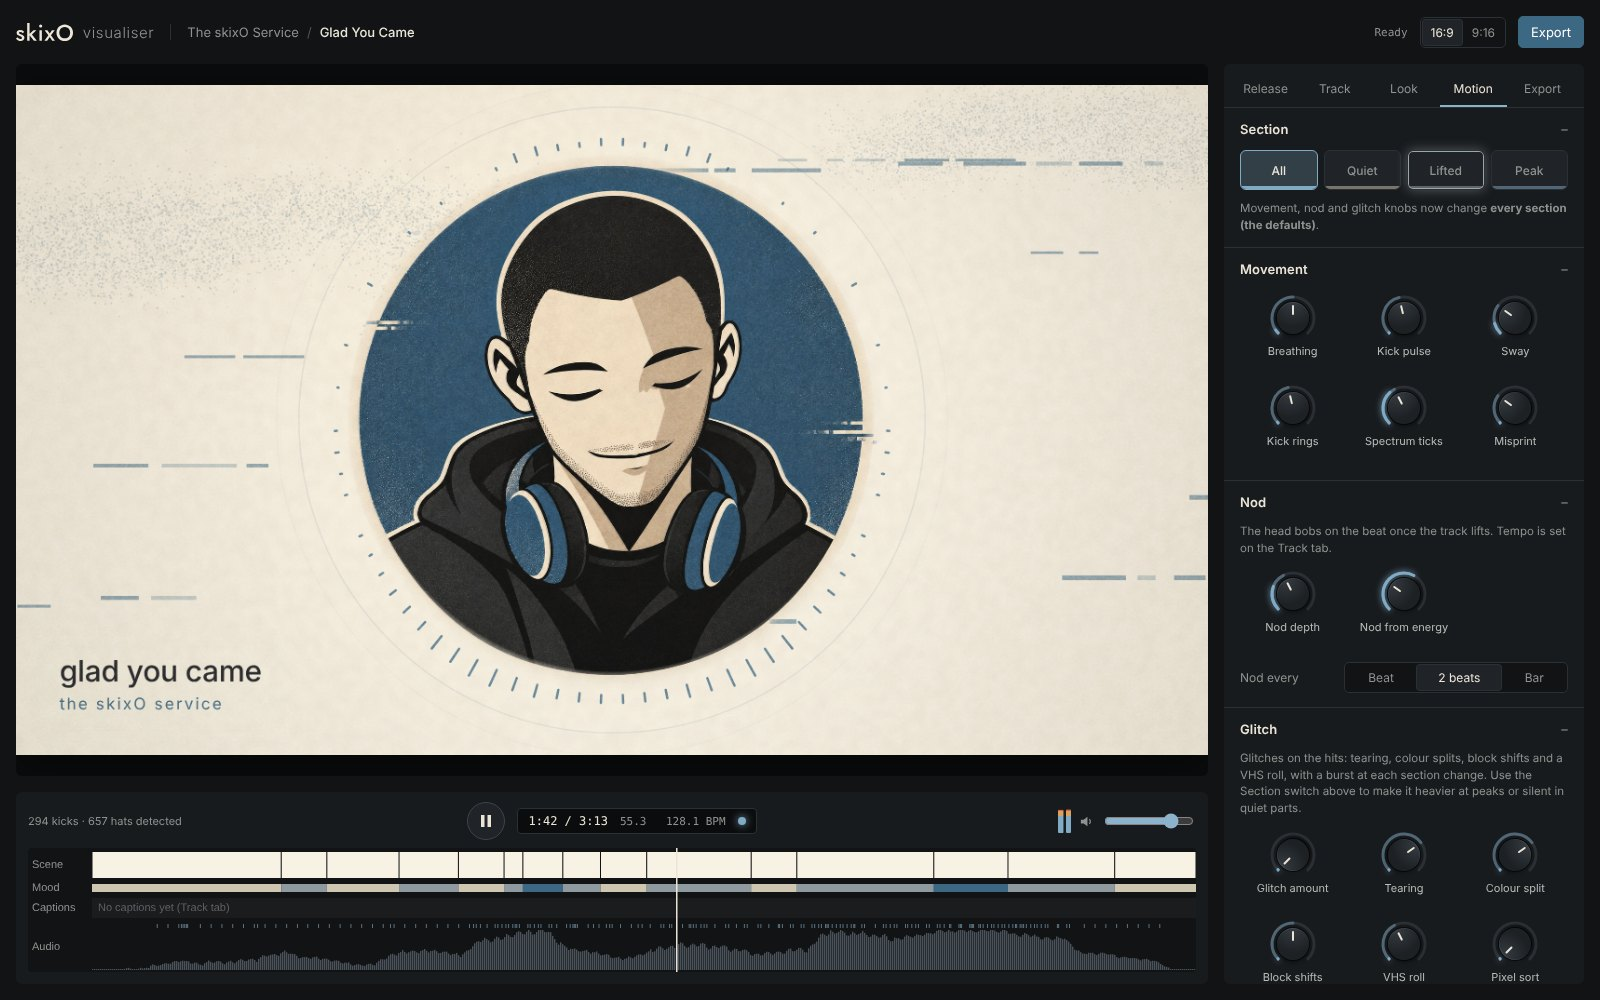
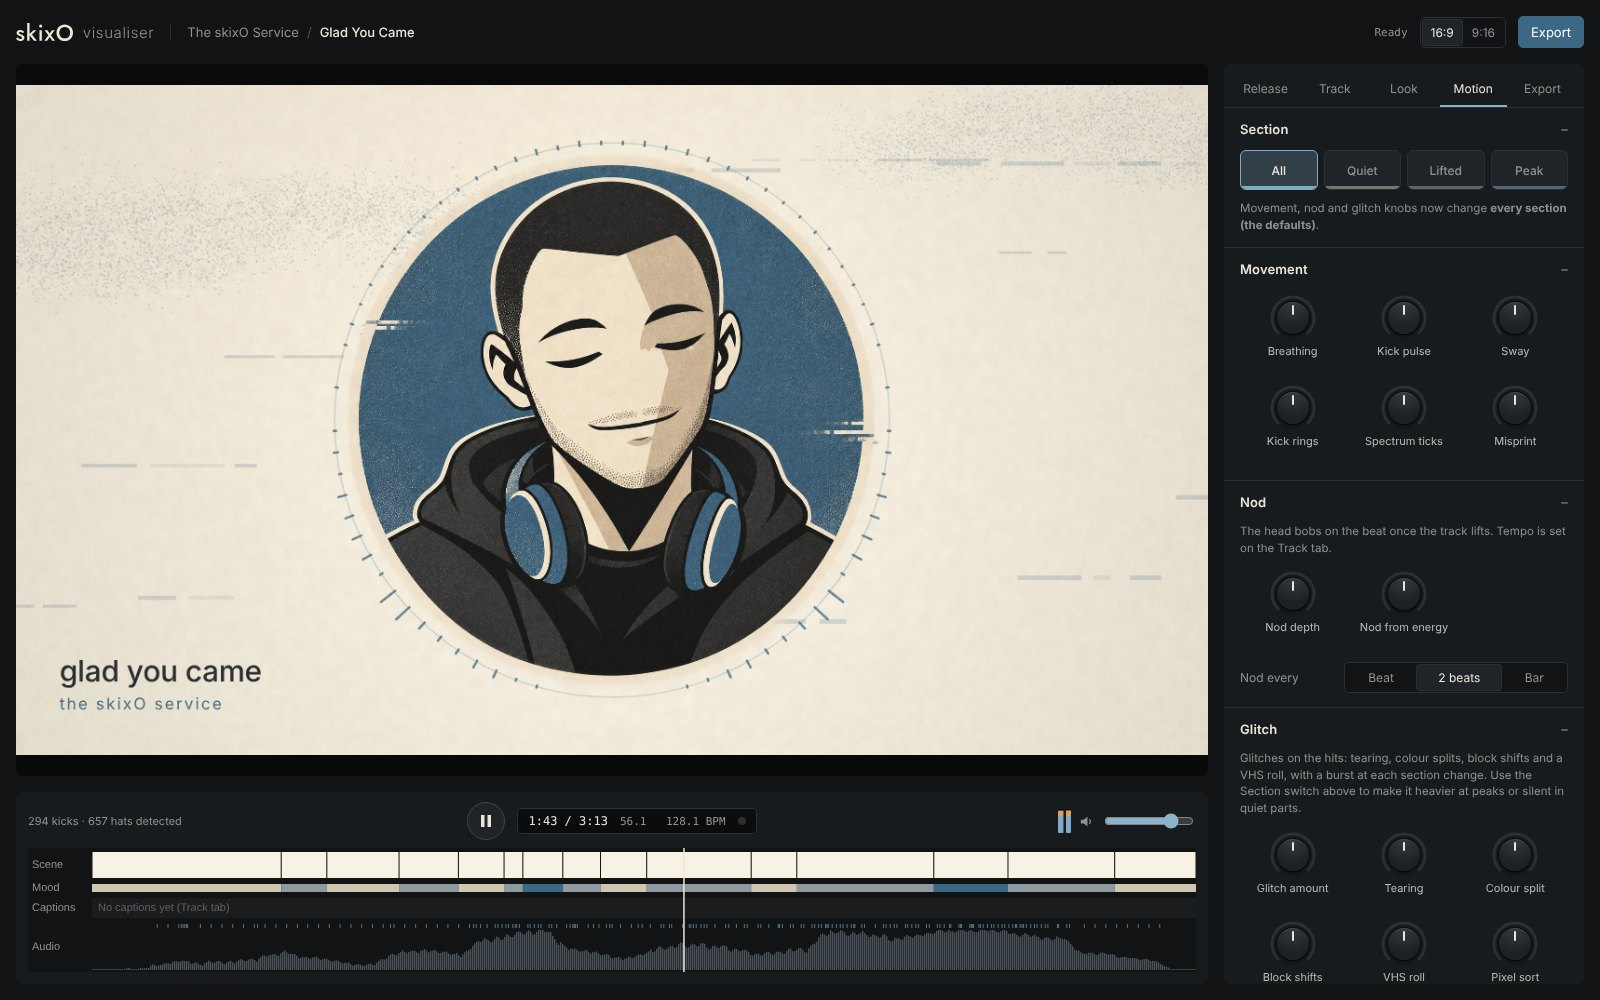
Case study: bring copy and images in line with the updated brief
Adds the third design pass and the Look tab screenshot, the direct
manipulation highlight, tap tempo and draggable section edges, animated
scenes, shared mascot frames and the tap pad for lyrics. The hero now
shows the current editor.

diff --git a/public/case-study/index.html b/public/case-study/index.html
@@ -93,12 +93,12 @@ footer b { color: var(--fg); }
     <dl class="facts">
       <div><dt>Role</dt><dd>Concept, art direction, design and build</dd></div>
       <div><dt>Platform</dt><dd>Web (desktop, Chrome or Edge for rendering)</dd></div>
-      <div><dt>Status</dt><dd>In use for skixO releases (private tool)</dd></div>
+      <div><dt>Status</dt><dd>In use for skixO releases (private tool, public case study)</dd></div>
     </dl>
 
     <figure class="hero">
-      <img src="/case-study/img/editor.jpg" width="1600" height="1200" alt="The visualiser editor: a preview of the mascot badge over a dusk city skyline, a panel of looks, layout and scene controls on the right, and a full-width timeline below with Scene, Mood, Captions and Audio lanes.">
-      <figcaption>The editor on a release. Preview, the panel for the step you are on, and the timeline lanes underneath.</figcaption>
+      <img src="/case-study/img/editor.jpg" width="1600" height="1200" alt="The visualiser editor during playback on the Look tab: the mascot badge on cream paper, look swatches, ink chips with hex values, layout and scene controls on the right, and below a transport with time, bar and BPM readouts above a full-width timeline with Scene, Mood, Captions and Audio lanes.">
+      <figcaption>The editor on a release, during playback. Preview, the panel for the step you are on, and the timeline lanes underneath.</figcaption>
     </figure>
   </header>
 
@@ -111,7 +111,7 @@ footer b { color: var(--fg); }
   <section>
     <div class="col">
       <h2><span class="n">01</span>Reading the track</h2>
-      <p>The audio is analysed in the browser: low and high bands for kicks and hats, a smoothed energy curve for structure, and a tempo and downbeat estimate from the kicks. From that, every track splits into quiet, lifted and peak sections, and the two biggest moments get the peak treatment. Because the scale is relative to each track, a gentle song and a loud one both get the full range of looks.</p>
+      <p>The audio is analysed in the browser: low and high bands for kicks and hats, a smoothed energy curve for structure, and a tempo and downbeat estimate from the kicks. From that, every track splits into quiet, lifted and peak sections, and the two biggest moments get the peak treatment. Because the scale is relative to each track, a gentle song and a loud one both get the full range of looks. Tempo can also be tapped in by hand, and section edges can be dragged straight on the timeline when the automatic split needs a nudge.</p>
     </div>
     <div class="pair">
       <figure><img src="/case-study/img/frame-quiet.jpg" width="1600" height="900" loading="lazy" alt="A quiet section: the mascot in flat light inside a round badge, over a starry night sky with a crescent moon and low clouds."><figcaption>Quiet: flat light.</figcaption></figure>
@@ -132,7 +132,7 @@ footer b { color: var(--fg); }
     <div class="col">
       <h2><span class="n">03</span>Backgrounds that carry the story</h2>
       <p>The mascot stays calm while the world behind it changes. Each section can have its own scene, with its own opacity, blur and drift, and scene changes follow the same timing as the mascot.</p>
-      <p>A library of 67 backgrounds in three sets (wistful, surreal, glitch) and four palettes sits behind a picker, and a "match look" step samples a background to recolour the badge so it always belongs to the scene.</p>
+      <p>A library of 67 backgrounds in three sets (wistful, surreal, glitch) and four palettes sits behind a picker, alongside animated scenes drawn in code, and a "match look" step samples a background to recolour the badge so it always belongs to the scene.</p>
     </div>
     <figure><img src="/case-study/img/frame-peak.jpg" width="1600" height="900" loading="lazy" alt="A peak section: the mascot in side light with a wider smile, over a glitched sky with light rays, red and cyan channel splits and scan lines."><figcaption>A peak. The scene and the glitch change with the section, and the mascot stays calm.</figcaption></figure>
   </section>
@@ -140,7 +140,7 @@ footer b { color: var(--fg); }
   <section>
     <div class="col">
       <h2><span class="n">04</span>Consistency across a body of work</h2>
-      <p>Looks bundle paper, ink and accent colours and recolour the artwork to match. Release groups (an album, a series, a playlist) share a look and motion, while each release keeps its own track, titles, sections and captions. Groups export to a file for backup.</p>
+      <p>Looks bundle paper, ink and accent colours and recolour the artwork to match. Release groups (an album, a series, a playlist) share a look, motion and mascot frames, while each release keeps its own track, titles, sections and captions. Groups export to a file for backup.</p>
     </div>
     <figure><img src="/case-study/img/looks.jpg" width="1500" height="560" loading="lazy" alt="The same frame in five looks: paper blue, dusk in purple, sage in green, riso red, and night on a dark background."><figcaption>The five looks: Paper blue, Dusk, Sage, Riso red and Night.</figcaption></figure>
   </section>
@@ -148,7 +148,7 @@ footer b { color: var(--fg); }
   <section>
     <div class="col">
       <h2><span class="n">05</span>One render, a full set of assets</h2>
-      <p>Rendering is frame-accurate and runs entirely in the browser: 16:9 and 9:16 in one pass, an 8-second seamless Spotify Canvas loop, and still presets for YouTube thumbnails, Instagram posts and Story covers with a headline type style. Lyrics are timed by tapping along as the track plays, then styled with entrances, finishes and fade timings.</p>
+      <p>Rendering is frame-accurate and runs entirely in the browser: 16:9 and 9:16 in one pass, an 8-second seamless Spotify Canvas loop, and still presets for YouTube thumbnails, Instagram posts and Story covers with a headline type style. Lyrics are timed by tapping a large pad along with the track, then styled with entrances, finishes and fade timings.</p>
     </div>
     <div class="formats">
       <figure><img src="/case-study/img/frame-vertical.jpg" width="720" height="1280" loading="lazy" alt="The vertical cut: the badge over a dusk skyline, with the title and a two-line lyric caption below it."><figcaption>The 9:16 cut, rendered in the same pass as 16:9.</figcaption></figure>
@@ -156,11 +156,17 @@ footer b { color: var(--fg); }
     </div>
   </section>
 
-  <section class="col">
-    <h2><span class="n">06</span>Designing the tool itself</h2>
-    <p>The interface went through a research-led pass against established video editors. That brought a top bar with the essentials, a full-width timeline with Scene, Mood, Captions and Audio lanes (click a block to edit it), and a panel reorganised around the order you actually work through a release: release details, audio and sections, look, motion, export.</p>
-    <p>A second pass made the tool more playable. The amounts you set by feel (movement, nod and glitch) became knobs, and while the track plays their rings show what each setting is doing at that moment, so you can see the effect against the music rather than guess. Sections switch on pads in the timeline's mood colours, and the transport gained a bar and beat readout, a beat light and level meters. The rest stays flat on purpose, so the artwork remains the brightest thing on screen.</p>
+  <section>
+    <div class="col">
+      <h2><span class="n">06</span>Designing the tool itself</h2>
+      <p>The interface went through a research-led pass against established video editors. That brought a top bar with the essentials, a full-width timeline with Scene, Mood, Captions and Audio lanes (click a block to edit it), and a panel reorganised around the order you actually work through a release: release details, audio and sections, look, motion, export.</p>
+      <p>A second pass made the tool more playable. The amounts you set by feel (movement, nod, glitch and texture) became knobs, and while the track plays their rings show what each setting is doing at that moment, so you can see the effect against the music rather than guess. Sections switch on pads in the timeline's mood colours, the transport gained a bar and beat readout, a beat light and level meters, and rendering starts from a record button whose ring fills as it goes.</p>
+    </div>
     <figure><img src="/case-study/img/controls.jpg" width="1600" height="1000" loading="lazy" alt="The editor during playback on the Motion tab: section pads for All, Quiet, Lifted and Peak, rows of knobs for movement, nod and glitch with lit rings, and a transport with a time, bar and BPM readout, a beat light and level meters."><figcaption>Motion during playback. The lit rings move with the kicks and hats; the controls take their colour from the release's look.</figcaption></figure>
+    <div class="col">
+      <p>A third pass reworked how each value is chosen. Colours became ink chips with their hex value and an eyedropper that picks from anywhere on screen. Text placement became a small anchor grid, fonts are picked from specimens set in the release's own title, and the mascot frames became a thumbnail grid you can drop new art straight onto. On the stage, the portrait can be dragged into place and resized with the scroll wheel. Everything that needs precision stays flat, so the artwork remains the brightest thing on screen.</p>
+    </div>
+    <figure><img src="/case-study/img/look-tab.jpg" width="1600" height="1317" loading="lazy" alt="Three panels from the Look tab. Left: look swatches, ink, accent and paper chips with hex values and an eyedropper, and buttons to match colours from the artwork or the scene. Middle: a font specimen set in the release title, an anchor grid for text position, and texture knobs. Right: the mascot frame grid, with flat, side and peak rows across base, slight nod and deep nod columns."><figcaption>The Look tab: ink chips and colour matching, type with the anchor grid and texture knobs, and the mascot frame grid.</figcaption></figure>
   </section>
 
   <section class="col">
@@ -172,6 +178,7 @@ footer b { color: var(--fg); }
       <li>Release groups and looks for visual consistency across releases</li>
       <li>16:9, 9:16, Spotify Canvas and still exports from one setup</li>
       <li>Tactile controls where you play by feel: knobs with live rings, section pads, a beat readout and meters</li>
+      <li>Direct manipulation where it helps: drag the portrait on the stage, drag section edges on the timeline, drop art onto a frame</li>
     </ul>
   </section>
 
